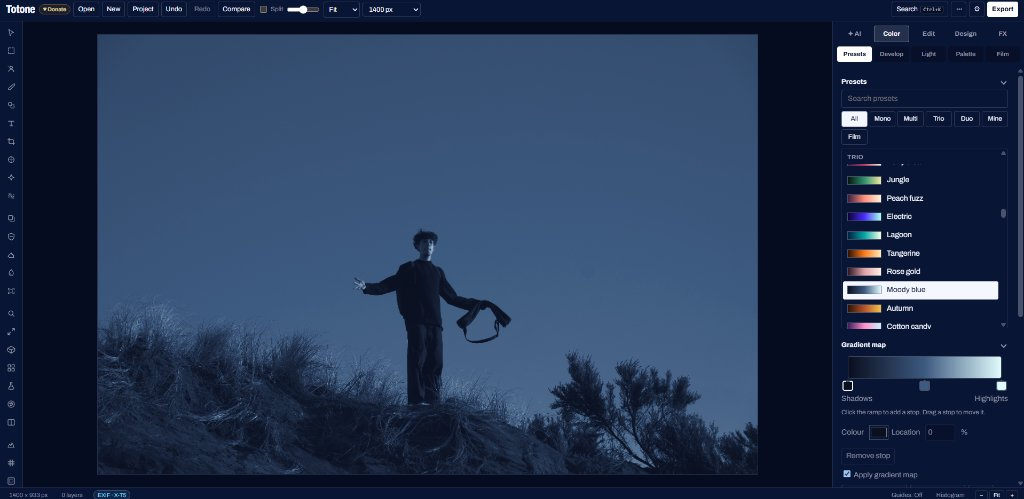
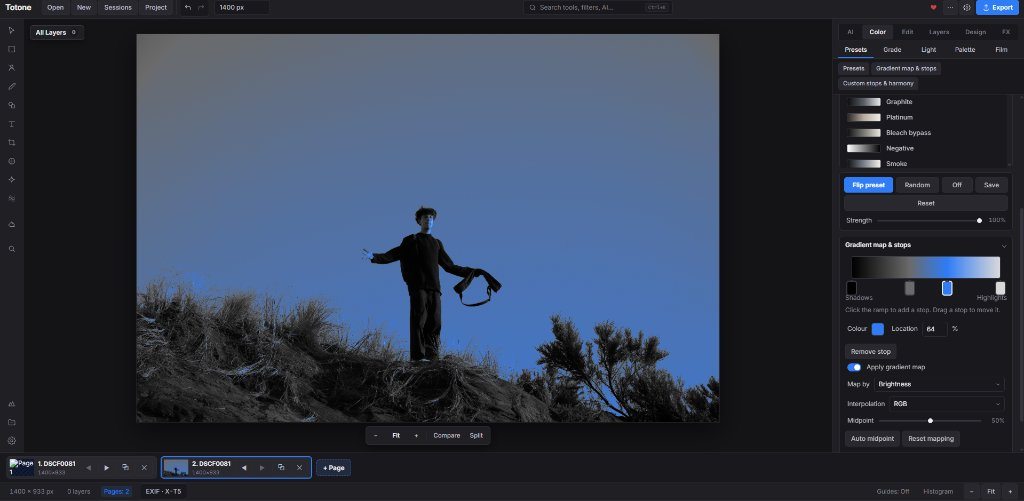
added soundclouds

diff --git a/code.html b/code.html
@@ -73,13 +73,13 @@
             </div>
             <div class="featured-grid" id="featuredGrid">
             <article class="project-card project-item" data-category="tool">
-              <a class="project-thumb-wrap" href="https://totone.averybeuth.xyz/" target="_blank" rel="noopener noreferrer" aria-label="Open Totone"><img class="project-thumb" src="./code-screenshots/totone.jpg" alt="Totone screenshot" loading="lazy" /></a>
+              <a class="project-thumb-wrap" href="https://totone.averybeuth.xyz/" target="_blank" rel="noopener noreferrer" aria-label="Open Totone"><img class="project-thumb" src="./code-screenshots/totone.jpg?v=2" alt="Totone screenshot" loading="lazy" /></a>
               <div class="project-copy">
                 <div class="project-meta">
                   <h3 class="project-title"><a href="https://totone.averybeuth.xyz/" target="_blank" rel="noopener noreferrer">Totone</a></h3>
                   <span class="project-tag">tool</span>
                 </div>
-                <p class="project-desc">A browser-based photo editor, color grader, and design studio with over a hundred tools, local AI that never uploads your photos, and no login standing in the way.</p>
+                <p class="project-desc">A browser-based photo editor, color grader, and design studio built as a free alternative to Photoshop, Lightroom, and Canva. It packs over 120 tools, including on-device AI background removal and upscaling, PSD support, multi-page designs, and offline app mode, all running locally with no uploads and no login standing in the way.</p>
               </div>
             </article>
             <article class="project-card project-item" data-category="apps">
@@ -178,7 +178,7 @@
                   <h3 class="project-title"><a href="https://averywsc.github.io/drift/" target="_blank" rel="noopener noreferrer">Drift</a></h3>
                   <span class="project-tag">tool</span>
                 </div>
-                <p class="project-desc">Drift is a collection of 116 interactive generative art, WebGL world, and physics modes I built from scratch, with flowing light, smearable ink, cosmic shaders, glowing fluids, atmospheric soundscapes, and kinetic simulations.</p>
+                <p class="project-desc">Drift is a collection of 160+ interactive generative art, WebGL world, physics, and tactile ASMR modes I built from scratch, with flowing light, smearable ink, cosmic shaders, glowing fluids, kinetic simulations, mechanical keyboards, deep sub-bass, and real-time procedural sound.</p>
               </div>
             </article>
             <article class="project-card project-item" data-category="apps">

diff --git a/music.html b/music.html
@@ -48,6 +48,8 @@
             <p class="page-subtitle">synthesized with javascript, python &amp; piano played on a keyboard</p>
             <div class="page-actions">
               <a class="page-cta" href="https://averywsc.github.io/bebeat/" target="_blank" rel="noopener noreferrer">bebeat</a>
+              <a class="page-cta" href="https://soundcloud.com/averyuwubaka" target="_blank" rel="noopener noreferrer">soundcloud</a>
+              <a class="page-cta" href="https://soundcloud.com/averyuwubaka-archive" target="_blank" rel="noopener noreferrer">soundcloud archive</a>
             </div>
           </header>
 
